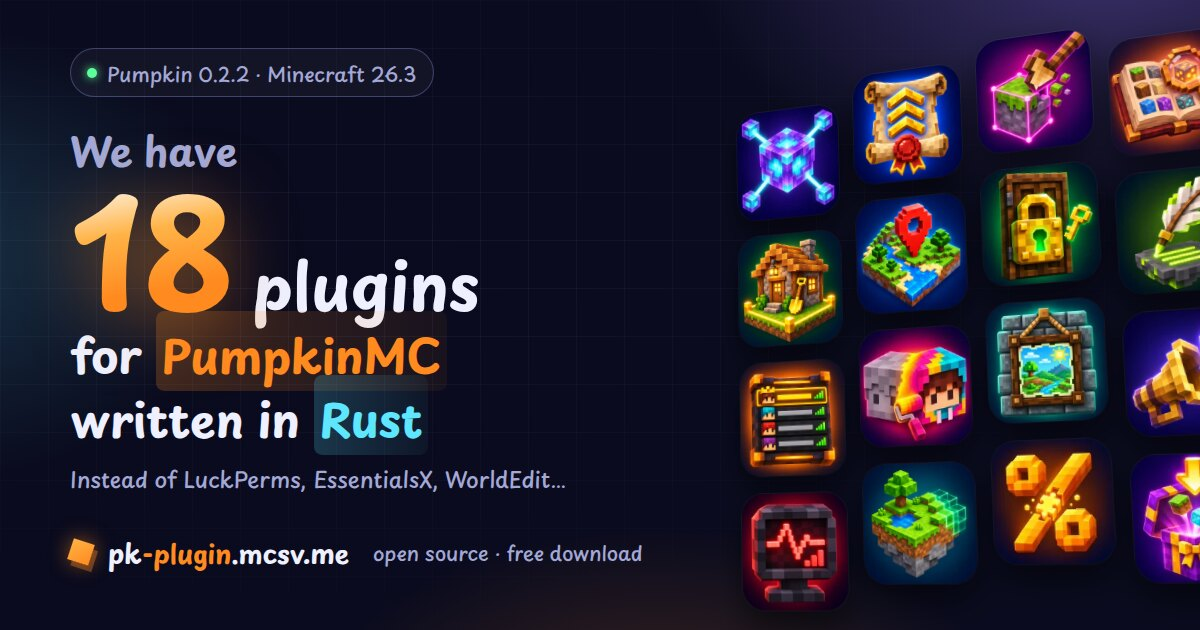
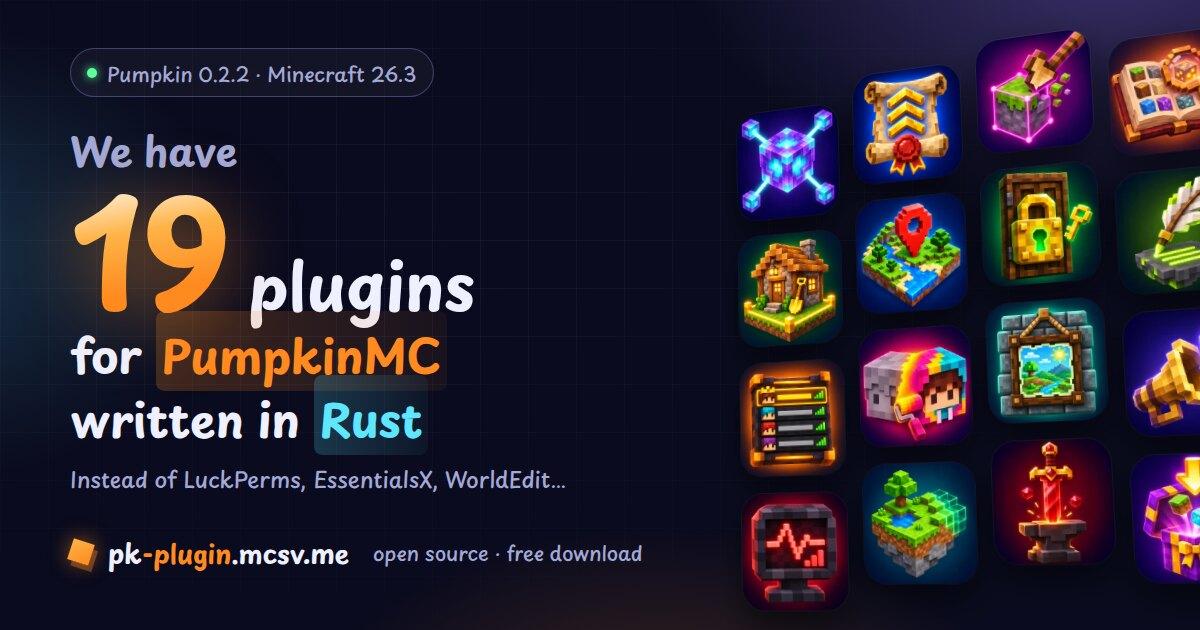
Hub page: CustomItems and release 0.8.0

Changed region(s): [[0.1233, 0.3016, 0.4008, 0.5127], [0.8325, 0.6937, 0.925, 0.9048]]

diff --git a/site/index.html b/site/index.html
@@ -3,8 +3,8 @@
 <head>
 <meta charset="utf-8">
 <meta name="viewport" content="width=device-width, initial-scale=1">
-<title>Pumpkin Plugins: 18 plugins for the PumpkinMC Minecraft server, written in Rust | MCSV</title>
-<meta name="description" content="18 open-source plugins for the PumpkinMC Minecraft server, written in Rust: they stand in for LuckPerms, EssentialsX, WorldEdit, CoreProtect, GriefPrevention, AuthMe and more, with the same commands. Free download.">
+<title>Pumpkin Plugins: 19 plugins for the PumpkinMC Minecraft server, written in Rust | MCSV</title>
+<meta name="description" content="19 open-source plugins for the PumpkinMC Minecraft server, written in Rust: they stand in for LuckPerms, EssentialsX, WorldEdit, CoreProtect, GriefPrevention, AuthMe and more, with the same commands. Free download.">
 <meta name="robots" content="index, follow, max-image-preview:large">
 <meta name="author" content="MCSV">
 <meta name="theme-color" content="#0a0b1e">
@@ -18,7 +18,7 @@
 <meta property="og:type" content="website">
 <meta property="og:site_name" content="Pumpkin Plugins by MCSV">
 <meta property="og:url" content="https://pk-plugin.mcsv.me/">
-<meta property="og:title" content="Pumpkin Plugins: 18 plugins for PumpkinMC, written in Rust">
+<meta property="og:title" content="Pumpkin Plugins: 19 plugins for PumpkinMC, written in Rust">
 <meta property="og:description" content="Stand-ins for LuckPerms, EssentialsX, WorldEdit, CoreProtect and more, with the same commands. Open source, free download.">
 <meta property="og:locale" content="en_US">
 <meta property="og:locale:alternate" content="th_TH">
@@ -26,13 +26,13 @@
 <meta property="og:image:type" content="image/jpeg">
 <meta property="og:image:width" content="1200">
 <meta property="og:image:height" content="630">
-<meta property="og:image:alt" content="We have 18 plugins for PumpkinMC, written in Rust, with the icon of each plugin">
+<meta property="og:image:alt" content="We have 19 plugins for PumpkinMC, written in Rust, with the icon of each plugin">
 <meta name="twitter:card" content="summary_large_image">
-<meta name="twitter:title" content="Pumpkin Plugins: 18 plugins for PumpkinMC, written in Rust">
+<meta name="twitter:title" content="Pumpkin Plugins: 19 plugins for PumpkinMC, written in Rust">
 <meta name="twitter:description" content="Stand-ins for LuckPerms, EssentialsX, WorldEdit, CoreProtect and more, with the same commands. Open source, free download.">
 <meta name="twitter:image" content="https://pk-plugin.mcsv.me/og.jpg">
-<meta name="twitter:image:alt" content="We have 18 plugins for PumpkinMC, written in Rust, with the icon of each plugin">
-<script type="application/ld+json">{"@context":"https://schema.org","@graph":[{"@type":"WebSite","@id":"https://pk-plugin.mcsv.me/#site","url":"https://pk-plugin.mcsv.me/","name":"Pumpkin Plugins","inLanguage":["en","th"],"publisher":{"@id":"https://mcsv.me/#org"}},{"@type":"Organization","@id":"https://mcsv.me/#org","name":"MCSV","url":"https://mcsv.me/"},{"@type":"SoftwareApplication","@id":"https://pk-plugin.mcsv.me/#app","name":"Pumpkin Plugins","url":"https://pk-plugin.mcsv.me/","image":"https://pk-plugin.mcsv.me/og.jpg","description":"18 plugins for the PumpkinMC Minecraft server, written in Rust. They stand in for LuckPerms, EssentialsX, WorldEdit, CoreProtect and others, with the same commands.","applicationCategory":"GameApplication","applicationSubCategory":"Minecraft server plugins","operatingSystem":"Pumpkin 0.2.2 (Minecraft 26.3)","softwareVersion":"0.7.1","datePublished":"2026-11-14","downloadUrl":"https://github.com/artmasster/pumpkin-plugins/releases/download/v0.7.1/pumpkin-plugins-0.7.1.zip","license":"https://opensource.org/licenses/MIT","isAccessibleForFree":true,"offers":{"@type":"Offer","price":"0","priceCurrency":"USD"},"author":{"@id":"https://mcsv.me/#org"},"sameAs":["https://github.com/artmasster/pumpkin-plugins"]},{"@type":"ItemList","name":"All 18 plugins","numberOfItems":18,"itemListElement":[{"@type":"ListItem","position":1,"url":"https://pk-plugin.mcsv.me/#basics","name":"Basics (instead of CMI / EssentialsX)","description":"The everyday commands: homes, warps, tpa, random teleport, ranks, chat, kits, economy and moderation."},{"@type":"ListItem","position":2,"url":"https://pk-plugin.mcsv.me/#perms","name":"Perms (instead of LuckPerms)","description":"Full permissions with the /lp syntax: groups, inheritance, tracks, prefixes and temporary nodes."},{"@type":"ListItem","position":3,"url":"https://pk-plugin.mcsv.me/#login","name":"Login (instead of AuthMe)","description":"Register and log in with a password on offline-mode servers, so nobody can take your name."},{"@type":"ListItem","position":4,"url":"https://pk-plugin.mcsv.me/#placeholders","name":"Placeholders (instead of PlaceholderAPI)","description":"%player_name% style placeholders the other plugins can use, such as balances and prefixes."},{"@type":"ListItem","position":5,"url":"https://pk-plugin.mcsv.me/#claims","name":"Claims (instead of GriefPrevention)","description":"Claim land with a golden shovel; nobody else can break, build or open chests there."},{"@type":"ListItem","position":6,"url":"https://pk-plugin.mcsv.me/#blocklog","name":"BlockLog (instead of CoreProtect)","description":"Records who did what, where and when. Inspect by clicking, then roll it back."},{"@type":"ListItem","position":7,"url":"https://pk-plugin.mcsv.me/#worldtools","name":"WorldTools (instead of WorldEdit)","description":"Edit the world in bulk: select, set, replace, copy, paste and undo."},{"@type":"ListItem","position":8,"url":"https://pk-plugin.mcsv.me/#worldmap","name":"WorldMap (instead of BlueMap / squaremap)","description":"A top-down map drawn as players explore, with a live web view."},{"@type":"ListItem","position":9,"url":"https://pk-plugin.mcsv.me/#pregen","name":"Pregen (instead of Chunky)","description":"Pre-generates the world so new areas do not lag. Pause and resume, even across restarts."},{"@type":"ListItem","position":10,"url":"https://pk-plugin.mcsv.me/#imagemap","name":"ImageMap (instead of ImageOnMap)","description":"Turns an image link into wall maps and posters made of several maps."},{"@type":"ListItem","position":11,"url":"https://pk-plugin.mcsv.me/#tablist","name":"TabList (instead of TAB)","description":"The player list: animated header and footer, group prefixes and a sidebar."},{"@type":"ListItem","position":12,"url":"https://pk-plugin.mcsv.me/#motd","name":"Motd (instead of MiniMOTD / Maintenance)","description":"Rotating server list messages and a maintenance mode."},{"@type":"ListItem","position":13,"url":"https://pk-plugin.mcsv.me/#skins","name":"Skins (instead of SkinsRestorer)","description":"Skins on offline-mode servers, from an account name or an image link."},{"@type":"ListItem","position":14,"url":"https://pk-plugin.mcsv.me/#resourcepack","name":"ResourcePack (instead of Resource Pack Downloader / ForcePack)","description":"Sends resource packs on join: several packs, per world, with optional enforcement."},{"@type":"ListItem","position":15,"url":"https://pk-plugin.mcsv.me/#monitor","name":"Monitor (instead of spark)","description":"Server health: TPS, time per tick, ping and entity counts."},{"@type":"ListItem","position":16,"url":"https://pk-plugin.mcsv.me/#cleaner","name":"Cleaner (instead of ClearLag)","description":"Clears dropped items on a schedule with a warning, and limits mobs per chunk."},{"@type":"ListItem","position":17,"url":"https://pk-plugin.mcsv.me/#discordlink","name":"DiscordLink (instead of DiscordSRV)","description":"Game chat to a Discord channel and back, through a webhook or a bot."},{"@type":"ListItem","position":18,"url":"https://pk-plugin.mcsv.me/#scripts","name":"Scripts (instead of Skript)","description":"Write .sk scripts in Skript style: custom commands, events, variables and chest menus."}]}]}</script>
+<meta name="twitter:image:alt" content="We have 19 plugins for PumpkinMC, written in Rust, with the icon of each plugin">
+<script type="application/ld+json">{"@context":"https://schema.org","@graph":[{"@type":"WebSite","@id":"https://pk-plugin.mcsv.me/#site","url":"https://pk-plugin.mcsv.me/","name":"Pumpkin Plugins","inLanguage":["en","th"],"publisher":{"@id":"https://mcsv.me/#org"}},{"@type":"Organization","@id":"https://mcsv.me/#org","name":"MCSV","url":"https://mcsv.me/"},{"@type":"SoftwareApplication","@id":"https://pk-plugin.mcsv.me/#app","name":"Pumpkin Plugins","url":"https://pk-plugin.mcsv.me/","image":"https://pk-plugin.mcsv.me/og.jpg","description":"19 plugins for the PumpkinMC Minecraft server, written in Rust. They stand in for LuckPerms, EssentialsX, WorldEdit, CoreProtect and others, with the same commands.","applicationCategory":"GameApplication","applicationSubCategory":"Minecraft server plugins","operatingSystem":"Pumpkin 0.2.2 (Minecraft 26.3)","softwareVersion":"0.8.0","datePublished":"2026-11-16","downloadUrl":"https://github.com/artmasster/pumpkin-plugins/releases/download/v0.8.0/pumpkin-plugins-0.8.0.zip","license":"https://opensource.org/licenses/MIT","isAccessibleForFree":true,"offers":{"@type":"Offer","price":"0","priceCurrency":"USD"},"author":{"@id":"https://mcsv.me/#org"},"sameAs":["https://github.com/artmasster/pumpkin-plugins"]},{"@type":"ItemList","name":"All 19 plugins","numberOfItems":19,"itemListElement":[{"@type":"ListItem","position":1,"url":"https://pk-plugin.mcsv.me/#basics","name":"Basics (instead of CMI / EssentialsX)","description":"The everyday commands: homes, warps, tpa, random teleport, ranks, chat, kits, economy and moderation."},{"@type":"ListItem","position":2,"url":"https://pk-plugin.mcsv.me/#perms","name":"Perms (instead of LuckPerms)","description":"Full permissions with the /lp syntax: groups, inheritance, tracks, prefixes and temporary nodes."},{"@type":"ListItem","position":3,"url":"https://pk-plugin.mcsv.me/#login","name":"Login (instead of AuthMe)","description":"Register and log in with a password on offline-mode servers, so nobody can take your name."},{"@type":"ListItem","position":4,"url":"https://pk-plugin.mcsv.me/#placeholders","name":"Placeholders (instead of PlaceholderAPI)","description":"%player_name% style placeholders the other plugins can use, such as balances and prefixes."},{"@type":"ListItem","position":5,"url":"https://pk-plugin.mcsv.me/#claims","name":"Claims (instead of GriefPrevention)","description":"Claim land with a golden shovel; nobody else can break, build or open chests there."},{"@type":"ListItem","position":6,"url":"https://pk-plugin.mcsv.me/#blocklog","name":"BlockLog (instead of CoreProtect)","description":"Records who did what, where and when. Inspect by clicking, then roll it back."},{"@type":"ListItem","position":7,"url":"https://pk-plugin.mcsv.me/#worldtools","name":"WorldTools (instead of WorldEdit)","description":"Edit the world in bulk: select, set, replace, copy, paste and undo."},{"@type":"ListItem","position":8,"url":"https://pk-plugin.mcsv.me/#worldmap","name":"WorldMap (instead of BlueMap / squaremap)","description":"A top-down map drawn as players explore, with a live web view."},{"@type":"ListItem","position":9,"url":"https://pk-plugin.mcsv.me/#pregen","name":"Pregen (instead of Chunky)","description":"Pre-generates the world so new areas do not lag. Pause and resume, even across restarts."},{"@type":"ListItem","position":10,"url":"https://pk-plugin.mcsv.me/#imagemap","name":"ImageMap (instead of ImageOnMap)","description":"Turns an image link into wall maps and posters made of several maps."},{"@type":"ListItem","position":11,"url":"https://pk-plugin.mcsv.me/#tablist","name":"TabList (instead of TAB)","description":"The player list: animated header and footer, group prefixes and a sidebar."},{"@type":"ListItem","position":12,"url":"https://pk-plugin.mcsv.me/#motd","name":"Motd (instead of MiniMOTD / Maintenance)","description":"Rotating server list messages and a maintenance mode."},{"@type":"ListItem","position":13,"url":"https://pk-plugin.mcsv.me/#skins","name":"Skins (instead of SkinsRestorer)","description":"Skins on offline-mode servers, from an account name or an image link."},{"@type":"ListItem","position":14,"url":"https://pk-plugin.mcsv.me/#resourcepack","name":"ResourcePack (instead of Resource Pack Downloader / ForcePack)","description":"Sends resource packs on join: several packs, per world, with optional enforcement."},{"@type":"ListItem","position":15,"url":"https://pk-plugin.mcsv.me/#customitems","name":"CustomItems (instead of Oraxen / ItemsAdder / Nexo)","description":"Items with their own look from a few lines and a picture: builds and sends the resource pack itself, with a crafting window."},{"@type":"ListItem","position":16,"url":"https://pk-plugin.mcsv.me/#monitor","name":"Monitor (instead of spark)","description":"Server health: TPS, time per tick, ping and entity counts."},{"@type":"ListItem","position":17,"url":"https://pk-plugin.mcsv.me/#cleaner","name":"Cleaner (instead of ClearLag)","description":"Clears dropped items on a schedule with a warning, and limits mobs per chunk."},{"@type":"ListItem","position":18,"url":"https://pk-plugin.mcsv.me/#discordlink","name":"DiscordLink (instead of DiscordSRV)","description":"Game chat to a Discord channel and back, through a webhook or a bot."},{"@type":"ListItem","position":19,"url":"https://pk-plugin.mcsv.me/#scripts","name":"Scripts (instead of Skript)","description":"Write .sk scripts in Skript style: custom commands, events, variables and chest menus."}]}]}</script>
 <link rel="preload" href="fonts/playpen-sans-thai-700-thai.woff2" as="font" type="font/woff2" crossorigin>
 <link rel="stylesheet" href="style.css">
 </head>
@@ -63,9 +63,9 @@
 <main id="top">
   <section class="hero">
     <div class="hero-copy">
-      <p class="eyebrow reveal"><span class="dot"></span><span data-i18n="eyebrow">For Pumpkin 0.2.2 · Minecraft 26.3 · release 0.7.1</span></p>
+      <p class="eyebrow reveal"><span class="dot"></span><span data-i18n="eyebrow">For Pumpkin 0.2.2 · Minecraft 26.3 · release 0.8.0</span></p>
       <h1 class="reveal">
-        <span class="h1-top"><span data-i18n="h1a">We have</span><span class="count" id="count">18</span><span data-i18n="h1b">plugins</span></span>
+        <span class="h1-top"><span data-i18n="h1a">We have</span><span class="count" id="count">19</span><span data-i18n="h1b">plugins</span></span>
         <span class="h1-line" data-i18n="h1c">for <em>PumpkinMC</em></span>
         <span class="h1-line" data-i18n="h1d">written in <em class="rust">Rust</em></span>
       </h1>

diff --git a/site/app.js b/site/app.js
@@ -4,13 +4,13 @@
 // The release the download buttons point at: files attached to the GitHub release of this tag.
 // `sizes` are the attached files' byte counts (written when the release is made).
 const RELEASE = {
-  version: '0.7.1', tag: 'v0.7.1', date: '2026-11-14', zip: 'pumpkin-plugins-0.7.1.zip',
+  version: '0.8.0', tag: 'v0.8.0', date: '2026-11-16', zip: 'pumpkin-plugins-0.8.0.zip',
   sizes: {
     'basics.wasm': 1731592, 'blocklog.wasm': 1368004, 'claims.wasm': 1118004, 'cleaner.wasm': 994192,
-    'discordlink.wasm': 1085722, 'imagemap.wasm': 1285152, 'libpregen.so': 42314784, 'login.wasm': 1093361,
-    'monitor.wasm': 1020513, 'motd.wasm': 966363, 'perms.wasm': 1597257, 'placeholders.wasm': 980922,
-    'pumpkin-plugins-0.7.1.zip': 15019489, 'resourcepack.wasm': 1079127, 'scripts.wasm': 1864507, 'skins.wasm': 1111777,
-    'tablist.wasm': 1002532, 'worldmap.wasm': 1295239, 'worldtools.wasm': 1203088,
+    'customitems.wasm': 1257873, 'discordlink.wasm': 1085722, 'imagemap.wasm': 1285152, 'libpregen.so': 42314784,
+    'login.wasm': 1093361, 'monitor.wasm': 1020513, 'motd.wasm': 966363, 'perms.wasm': 1597257,
+    'placeholders.wasm': 980922, 'pumpkin-plugins-0.8.0.zip': 15417509, 'resourcepack.wasm': 1079127, 'scripts.wasm': 1864507,
+    'skins.wasm': 1111777, 'tablist.wasm': 1002532, 'worldmap.wasm': 1297868, 'worldtools.wasm': 1203088,
   },
 };
 const VERSION = RELEASE.version;
@@ -21,6 +21,7 @@ const fileOf = (p) => (p.native ? 'libpregen.so' : `${p.id}.wasm`);
 // Every release, newest first. Downloads exist for the newest one only (the GitHub repository
 // starts at 0.7.1); the older ones ran on MCSV's servers, and names before 0.6.0 were different.
 const HISTORY = [
+  { v: '0.8.0', d: '2026-11-16', th: 'เพิ่ม CustomItems: ไอเท็มหน้าตาของเซิร์ฟเอง สร้างและส่ง resource pack ให้ มีหน้าต่างคราฟ รวมเป็น 19 ตัว', en: 'Adds CustomItems: items with their own look, a resource pack built and sent by the plugin, and a crafting window. Nineteen plugins.' },
   { v: '0.7.1', d: '2026-11-14', th: 'รุ่นแรกที่เปิดให้ดาวน์โหลดบน GitHub · หน้าเว็บแก้สิทธิ์ของ Perms ปิดไว้จนกว่าจะตั้ง editor-url เอง', en: 'First release with downloads on GitHub. The Perms web editor stays off until you set editor-url.' },
   { v: '0.7.0', d: '2026-11-14', th: 'เพิ่ม ResourcePack, Skins, Placeholders และ ImageMap รวมเป็น 18 ตัว', en: 'Adds ResourcePack, Skins, Placeholders and ImageMap: eighteen plugins.' },
   { v: '0.6.2', d: '2026-11-14', th: 'Perms มีหน้าเว็บแก้สิทธิ์ /lp editor แบบ LuckPerms', en: 'Perms gets a LuckPerms-style web editor, /lp editor.' },
@@ -99,6 +100,10 @@ const PLUGINS = [
     th: 'ส่ง resource pack ให้ผู้เล่นตอนเข้าเกม มีหลาย pack แยกตามโลก และบังคับได้',
     en: 'Sends resource packs on join: several packs, per world, with optional enforcement.',
     cmds: ['/rp', '/rp list', '/rp send <player>', '/rp hash'] },
+  { id: 'customitems', name: 'CustomItems', rep: 'Oraxen / ItemsAdder / Nexo', aka: 'oraxen itemsadder nexo custom items model texture glyph', cat: 'look', extra: ['network.tcp.bind'],
+    th: 'ไอเท็มหน้าตาของเซิร์ฟเอง: เขียนไม่กี่บรรทัดแล้ววางรูป ปลั๊กอินสร้างและส่ง resource pack ให้ มีหน้าต่างคราฟ',
+    en: 'Items with their own look from a few lines and a picture: builds and sends the resource pack itself, with a crafting window.',
+    cmds: ['/craft', '/customitems', '/customitems give <player> <id>', '/customitems reload', '/customitems pack'] },
   { id: 'monitor', name: 'Monitor', rep: 'spark', aka: 'spark tps lag profiler timings', cat: 'ops',
     th: 'ดูสุขภาพเซิร์ฟ: TPS เวลาต่อ tick ping และจำนวน entity',
     en: 'Server health: TPS, time per tick, ping and entity counts.',
@@ -418,7 +423,7 @@ function showWhatsNew() {
 
 /* ---------- language ---------- */
 const TITLE_EN = document.title;
-const TITLE_TH = 'Pumpkin Plugins: เรามี 18 ปลั๊กอินสำหรับ PumpkinMC เขียนด้วย Rust | MCSV';
+const TITLE_TH = 'Pumpkin Plugins: เรามี 19 ปลั๊กอินสำหรับ PumpkinMC เขียนด้วย Rust | MCSV';
 function paintText() {
   document.documentElement.lang = lang;
   document.querySelectorAll('[data-i18n]').forEach((node) => { node.innerHTML = t(node.dataset.i18n); });

diff --git a/scripts/og-image.html b/scripts/og-image.html
@@ -44,13 +44,13 @@ body::before { content: ''; position: absolute; inset: 0; opacity: .55;
 <div class="copy">
   <p class="tag"><i></i>Pumpkin 0.2.2 · Minecraft 26.3</p>
   <p class="pre">We have</p>
-  <div class="big"><span class="n">18</span><span class="w">plugins</span></div>
+  <div class="big"><span class="n">19</span><span class="w">plugins</span></div>
   <p class="sub">for <b>PumpkinMC</b><br>written in <b class="rust">Rust</b></p>
   <p class="alt">Instead of LuckPerms, EssentialsX, WorldEdit…</p>
 </div>
 <p class="foot"><i class="cube"></i><em>pk<span>-plugin</span>.mcsv.me</em><small>open source · free download</small></p>
 <script>
-for (const id of ['basics','perms','worldtools','blocklog','claims','worldmap','login','scripts','tablist','skins','imagemap','discordlink','monitor','pregen','placeholders','resourcepack']) {
+for (const id of ['basics','perms','worldtools','blocklog','claims','worldmap','login','scripts','tablist','skins','imagemap','discordlink','monitor','pregen','customitems','resourcepack']) {
   const img = document.createElement('img');
   img.src = `../site/img/${id}.webp`;
   document.getElementById('wall').append(img);
